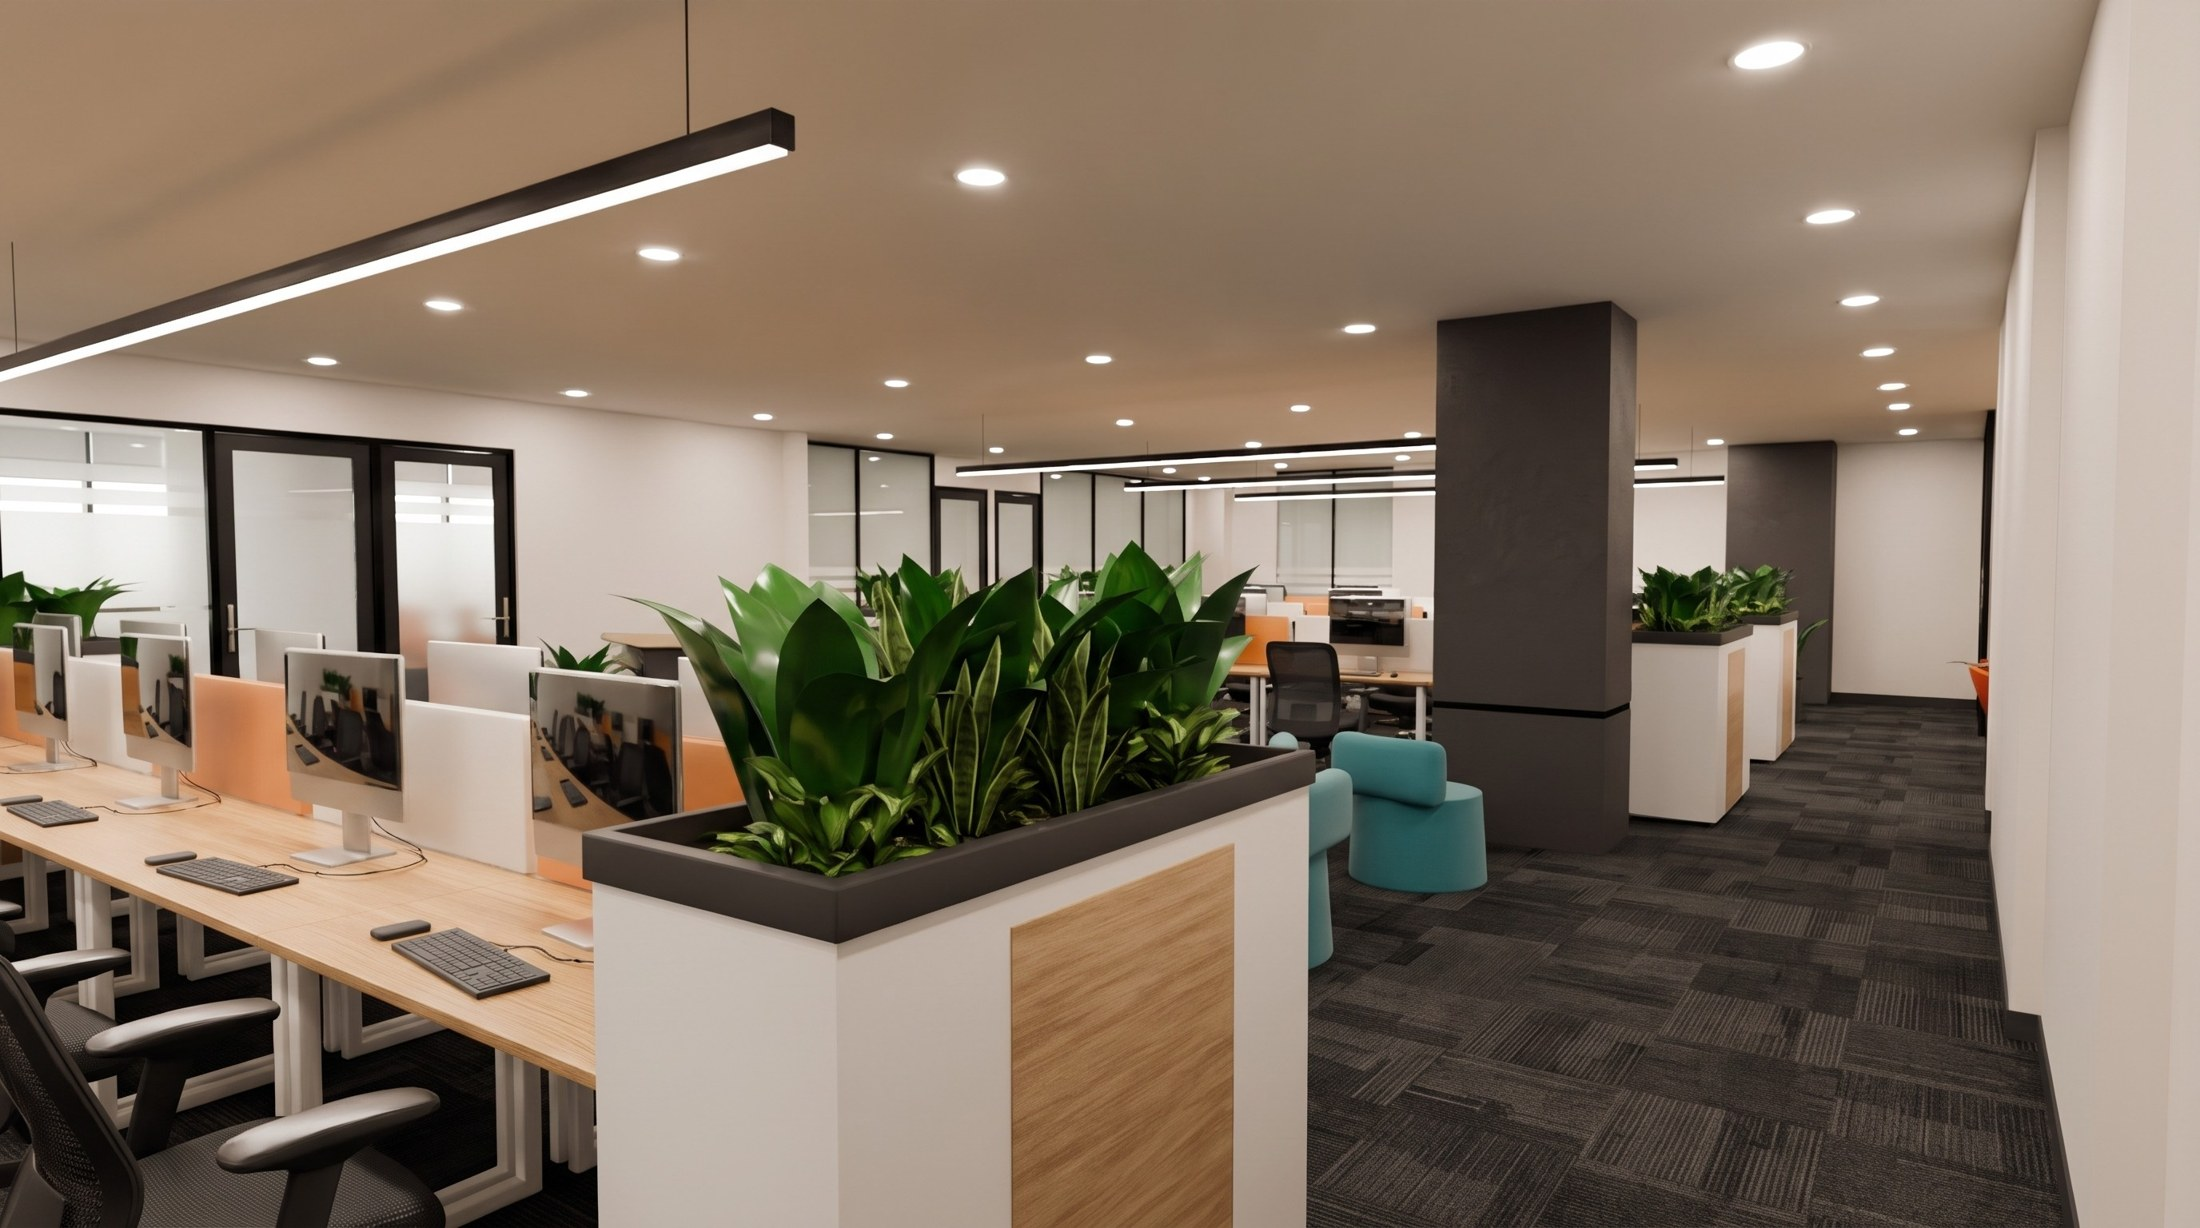
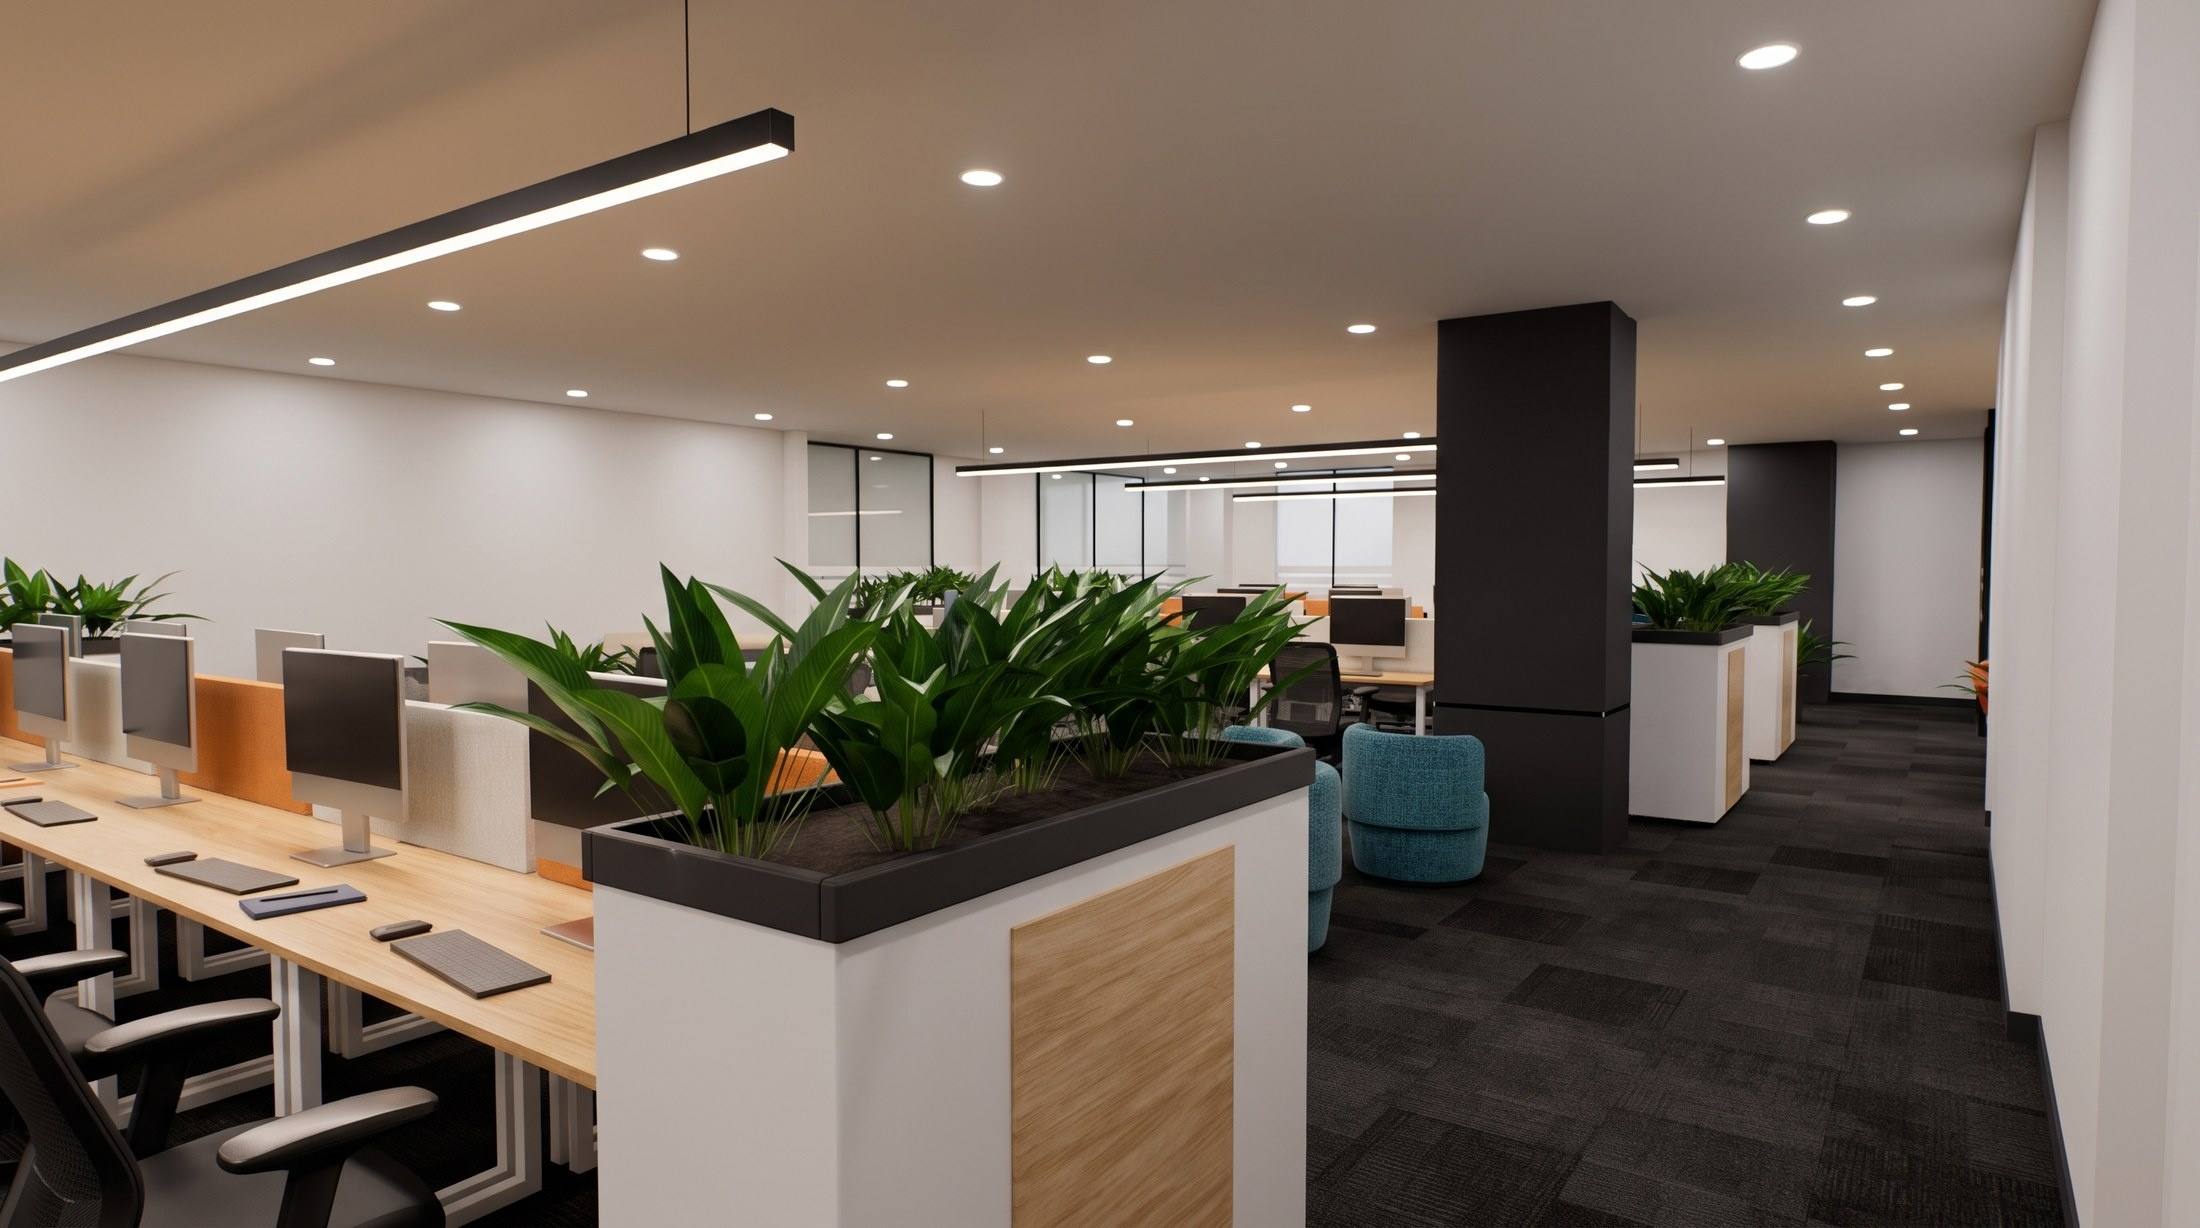
Volt renders: work in progress from the separate render job
Snapshot while the render job is still running: an updated open workstations
image, its Blender base, and the current volt_render.py (parses). These are
not final; each room is still being judged beside its deck page.

Claude-Session: https://claude.ai/code/session_01JjaGfqaM8KabVL3pWvmMYt

diff --git a/noida-skymark/volt/blender/volt_render.py b/noida-skymark/volt/blender/volt_render.py
@@ -268,7 +268,7 @@ pbr("led", "#ffffff", emit=light_col(LAMP_K), emit_strength=12.0); pbr("led_spot
 # small things people leave on desks (assumed, not in the CAD)
 pbr("mug_white", "#eeece6", rough=0.18, coat=0.5); pbr("mug_orange", "#dd8d36", rough=0.2, coat=0.5); pbr("mug_navy", "#1c2440", rough=0.2, coat=0.5)
 pbr("bottle", "#2c6a74", rough=0.35, metal=1.0); pbr("paper", "#f2f0ea", rough=0.8); pbr("cover_black", "#1d1d1f", rough=0.6); pbr("cover_orange", "#c9772c", rough=0.6); pbr("cover_navy", "#222b4a", rough=0.6)
-mat_fabric("bag", "#26282c", 0.85); pbr("ground", "#8d8a84", rough=0.9)
+mat_fabric("bag", "#26282c", 0.85); pbr("ground", "#8d8a84", rough=0.9); mat_fabric("rug", "#8f8a82", 0.95)
 mat_glass("glass"); mat_leaf()
 for m in MATS.values():
     if hasattr(m, "blend_method") and m.name == "frost":
@@ -526,6 +526,12 @@ for t in L["tables"]:
     if "poly" in t and any(min(math.hypot(s["x"] - px, s["y"] - py) for px, py in t["poly"]) < 0.9 or
                            (min(p[0] for p in t["poly"]) - 0.1 <= s["x"] <= max(p[0] for p in t["poly"]) + 0.1 and min(p[1] for p in t["poly"]) - 0.6 <= s["y"] <= max(p[1] for p in t["poly"]) + 0.6) for s in stools):
         h = L["heights"]["high_desk"]      # bar stools stand at it, so it is a high counter (assumed, like every height)
+    if "poly" in t and h < 0.5:
+        xs = [p[0] for p in t["poly"]]; ys = [p[1] for p in t["poly"]]
+        if (max(xs) - min(xs)) * (max(ys) - min(ys)) > 3.0 and any(min(xs) < s["x"] < max(xs) and min(ys) < s["y"] < max(ys) for s in L["seats"]):
+            # A big low outline with seats standing inside it cannot be a table top: it is drawn as a rug. The outline is
+            # the CAD's; reading it as a rug is our call (the layout lists it as a coffee table).
+            prism("rug", t["poly"], [], 0.0, 0.012, "rug", 0.004); continue
     if "circle" in t:
         x, y, r = t["circle"]; put(lathe_mesh(((0.0, 0.0), (r - 0.006, 0.0), (r, 0.006), (r, 0.029), (r - 0.006, 0.035), (0.0, 0.035)), "oak", 56), T(x, y, h - 0.035), "table_top")
         put(cyl_mesh(0.035, h - 0.035, "black_metal", 16), T(x, y, 0), "table_leg"); put(cyl_mesh(r * 0.55, 0.015, "black_metal"), T(x, y, 0), "table_base")
